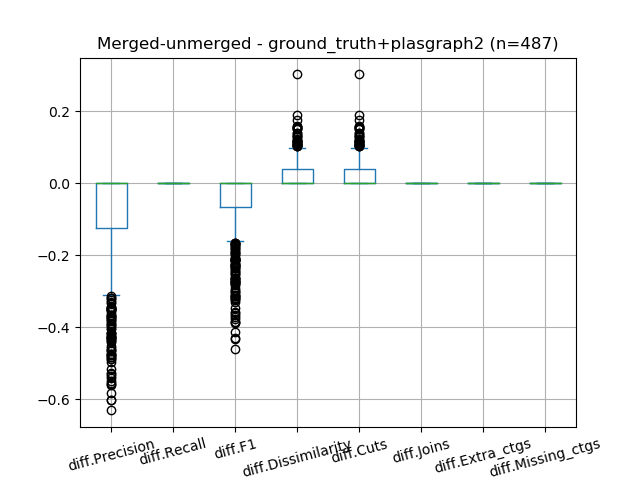
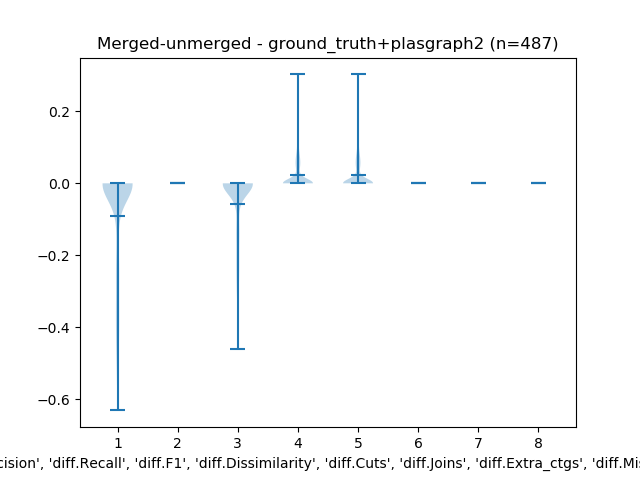
difference figures

diff --git a/exp_20250802/analysis_utils.py b/exp_20250802/analysis_utils.py
@@ -361,8 +361,11 @@ def create_unmerged_vs_merged_difference_boxplot(
             (filtered_df["classification"]==classification)
         ]
         plot_df = plot_df_aux[diff_cols]
+    plot_data = []
+    for col in diff_cols: plot_data.append(plot_df[col].values)
     nb_data_points = plot_df.shape[0]
-    plot_df.plot.box(grid=True, rot=15)
+    #plot_df.plot.box(grid=True, rot=15)
+    plt.violinplot(plot_data, showmeans=True)
     plt.xlabel(diff_cols)
     plt.title(f"{out_title} (n={nb_data_points})")
     plt.savefig(out_file)
